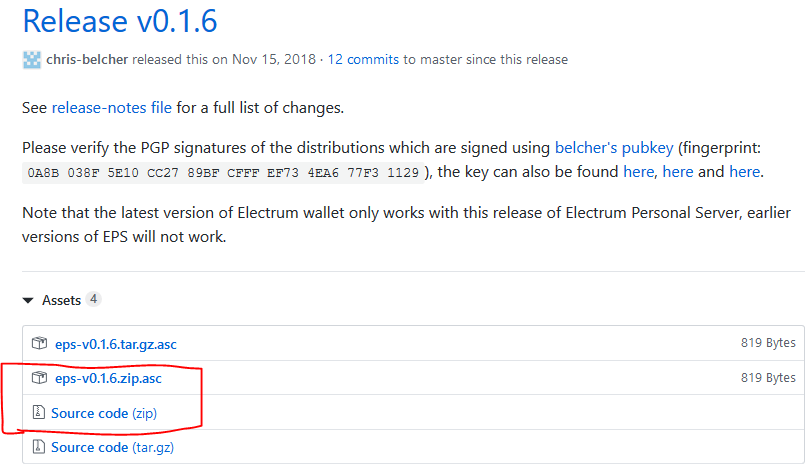
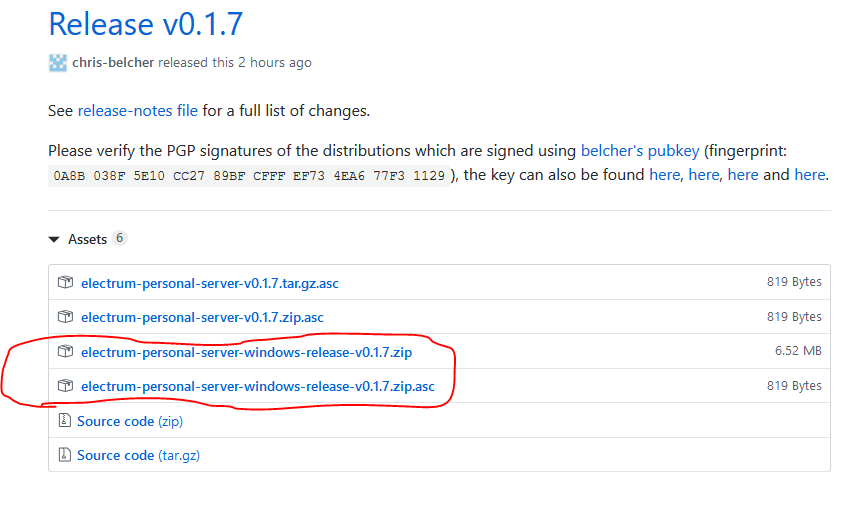
Updated EPS-guide for v1.7

diff --git a/hodl-guide/hodl-guide_63_eps-win.md b/hodl-guide/hodl-guide_63_eps-win.md
@@ -5,26 +5,29 @@
 
 # Electrum Personal Server on Windows 10
 
-*Difficulty: medium*
+*Difficulty: easy*
 
 Electrum Personal Server will connect your Bitcoin full node to Electrum. This will make it possible to use all functionality in Electrum (Hardware Wallet support, easy multi-sig setup and more) while still validating and broadcasting everything with your full node.
+
+If you like to know more about the project, go to https://github.com/chris-belcher/electrum-personal-server and read the intro (before How To).
 
 Before starting, make sure you’ve got a Bitcoin Core full node running and synced. If don’t, see [Install and optimize Bitcoin Core](hodl-guide_61_bitcoin-core.md).
 
 You also need [Electrum](https://electrum.org/#download). Always check the digital signatures before installing, more info on how [here](https://github.com/DriftwoodPalace/guides/blob/master/hodl-guide/hodl-guide_30_last-seed.md#download-and-verify-electrum).
 
+If you have any issues during the setup, check out the troubleshooting section at the end of this guide.
+
 ## Download the installation package
 
-Go to https://github.com/chris-belcher/electrum-personal-server and read the intro (before How To) to know what this is and why it’s important.
-Before installing anything we need to verify the downloads. To do this we need Chris Belchers signing-keys. It can be found [here](https://github.com/chris-belcher/electrum-personal-server/blob/master/pgp/pubkeys/belcher.asc).
+Before installing anything we need to verify the download. To do this we need the developer, Chris Belchers, signing-keys. It can be found [here](https://github.com/chris-belcher/electrum-personal-server/blob/master/pgp/pubkeys/belcher.asc).
 
 On the page, click “raw”:
 
 ![Eps Win1](images/63_eps-w_1.png)
 
-Use `Ctrl+S` and save the key in a folder on your computer.
+Use `Ctrl+S` and save the key in a folder on your computer (preferably in the folder you download files to).
 
-Then, navigate to the [release page](https://github.com/chris-belcher/electrum-personal-server/releases) and download the latest `Source code (.zip)` and the corresponding `.asc` file (needed to verify the downloaded file). For example:
+Then, navigate to the [release page](https://github.com/chris-belcher/electrum-personal-server/releases) and download the latest release for Windows. Make sure to download the corresponding `.asc` file (detached signature) as well. For example:
 
 ![Eps Win2](images/63_eps-w_2.png)
 
@@ -34,103 +37,68 @@ Then, navigate to the folder where the downloaded files are located. Use `Shift+
 
 ![Eps Win9](images/63_eps-w_9.png)
 
-That should automatically start PowerShell in the right directory (else start PowerShell manually and use `> cd ~\downloads` to change to the right directory)
+That should automatically start PowerShell in the correct directory (else start PowerShell manually and use `cd ~\downloads` to change to the right directory)
 
-Start by importing Belchers signing key to your local directory (enter everything after the symbol `>` and then click return):
+Start by importing Belchers signing key to your local directory by typing this in PowerShell:
 
-`> gpg --import belcher.asc`
+`gpg --import belcher.asc`
 
 Then verify the zip-file:
 
-`> gpg --verify eps-v0.1.6.zip.asc electrum-personal-server-eps-v0.1.6.zip`
+` gpg --verify electrum-personal-server-windows-release-v0.1.7.zip.asc`
 
 The output should be something similar to this:
 
 ```
-gpg: Signature made 11/15/18 23:30:04 W. Europe Standard Time
+gpg: assuming signed data in 'electrum-personal-server-windows-release-v0.1.7.zip'
+gpg: Signature made 04/26/19 18:26:08 W. Europe Daylight Time
 gpg:                using RSA key EF734EA677F31129
 gpg: Good signature from "Chris Belcher <false@email.com>" [unknown]
 gpg: WARNING: This key is not certified with a trusted signature!
 gpg:          There is no indication that the signature belongs to the owner.
-Primary key fingerprint: 0A8B 038F 5E10 CC27 89BF CFFF EF73 4EA6 77F3 1129
+Primary key fingerprint: 0A8B 038F 5E10 CC27 89BF  CFFF EF73 4EA6 77F3 1129
 ```
 
 We can see that the signature was made at a date close to the release, it's a `Good signature` and the Primary key fingerprint is the same as on Github. We can double check by doing a search online on the fingerprint. That confirms from various sources that the key seems to belong to Chris Belcher. If you get a different fingerprint or a bad signature, stop and investigate further.
 
 Otherwise go ahead an unzip the .zip file to any location on your computer.
 
-## Install the server with Python
+## Modify the config-file
 
-We need Python3 to install the server. Check if it’s installed by going back to PowerShell and type in:
+We need to modify a few settings before starting the server.
 
-`> python --version`
-
-If it gives an error, try
-
-`> py --version`
-
-*Note:* `Py` is the Windows Python Launcher and can in some situation work when `python` doesn’t. But try to use `python` and if only `py` works change python to py in the following examples.
-
-If Python 3 (not Python 2.7) is installed, it will give you an output with the version. For example `Python 3.7.0` if Python 3.7 is installed. Otherwise go to https://www.python.org/downloads/ and download and install the latest version.
-
-We are going to use `pip` to install the personal server. It should be installed with Python, but make sure you have the latest version by typing this in PowerShell:
-
-`> python -m pip install -U pip`
-
-When it’s done, type the following (and make sure to change the path to where you unzipped the file):
-
-`> python -m pip install --user C:\Users\User1\Downloads\electrum-personal-server-eps-v0.1.6`
-
-That should install the server and you should now have the two scripts, `electrum-personal-server.exe` and `electrum-personal-server-rescan.exe` in a Python folder in the `%Appdata` location.
-
-To make sure that everything worked, open the folder by typing this in PowerShell:
-
-`> ii ~\AppData\Roaming\Python\Python37\Scripts`
-
-Change "python37" if using another version then Python3.7. You should see the folder with the scripts:
-
-![Eps Win8](images/63_eps-w_8.png)
-
-If it doesn't work try navigating to the folder manually, it should be located at `C:\Users\User1\AppData\Roaming\Python\Python37\Scripts`. AppData is usually a hidden folder, so make sure you can see hidden folders.
-
-Once in the folder, mark both files, right click and select "Create Shortcut". That should create two shortcuts. Cut these shortcuts and paste them in a more convenient folder (like on the desktop or in the Electrum Personal Server folder).
-
-If you are getting errors or can't find the scripts, make sure you have the latest version of Python and Pip. If not, update and try installing the server again.
-
-## Change the config-file
-
-Go back into the unzipped folder electrum-personal-server-eps-v0.1.6 and make a copy of the file `config.cfg_sample` and rename the copy to `config.cfg` (you’ll get a warning about changing the file name extension, select Yes).
+Navigate to the unzipped folder `\electrum-personal-server-windows-release-v0.1.7` and make a copy of the file `config.ini_sample` and rename the copy to `config.ini` (you’ll get a warning about changing the file name extension, select Yes).
 
 *Note:* Make sure that you can see file extensions, it can be changed at “View” in the top-bar:
 
 ![Eps Win3](images/63_eps-w_3.png)
 
-Right click on the file and select edit to edit it with a text editor (notepad etc). We are going to modify a few lines to tell the server what it should look for.
+Right click on `config.ini` and select edit to edit it with a text editor (notepad etc).
 
 #### For multi-sig wallets
 
-To import a multi-sig wallet, open the wallet in Electrum. Go to `Wallet>Information` and copy the Master Public Key of cosigner 1. 
+To import a multi-sig wallet, open the wallet in Electrum. Go to `Wallet>Information` and copy the Master Public Key for cosigner 1.
 
-In the config.cfg-file, create a new line and give the wallet a name. If you are using a 2 of 3 multi-sig, type `2` (required-signatures) after the name. Then paste cosigner 1s key. Go back to Electrum, copy the key for cosigner 2 and paste after cosigner 1s key (on the same row) and go back to Electrum and copy and paste the key for cosigner 3. Your row should look like this (but with your 3 keys):
+In `config.ini`, create a new line and give the wallet a name. If you are using a 2 of 3 multi-sig, type `2` (required-signatures) after the name. Then paste cosigner 1s key. Go back to Electrum, copy the key for cosigner 2 and paste it after cosigner 1s key (on the same row) and go back to Electrum and copy and paste the key for cosigner 3. Your row should look like this (but with your 3 keys):
 
 ```
 my_multisig_wallet = 2 xpub661MyMwA... xpub6AMQ6ZPNa6... xpub6A2po6ffdf...
 ```
 
-You can change the name “my_multisig_wallet” if you like.
+You can change the name “my_multisig_wallet” if you like. Make sure that you don't have the symbol `#` in front of the line (it'll then be treated as a comment).
 
 *Note:* This is storing your master public keys in cleartext on your computer. A malicious actor could get hold of this and from that derive all of your bitcoin addresses (your funds are not at risk because of this).
 
 #### Single wallet
 
-If you want to add a single wallet, for example with one key from a hardware wallet. Follow the same procedure. Open the wallet in Electrum and go to Wallet>Information and copy the Master Public Key. Pick a name and paste it to the config.cfg file.
+If you want to add a single wallet, for example with one key from a hardware wallet. Follow the same procedure. Open the wallet in Electrum and go to Wallet>Information and copy the Master Public Key. Pick a name and paste the key in `config.ini` file.
 For example:
 
 ```
 Hw_wallet1 = xpubkg4QUp5XpUdNf2uGXvQmnD4zcofZ1MN6Fo8PjqQ…
 ```
 
-### Rest of the config.cfg file
+### Rest of the config.ini file
 
 If you’ve moved your Bitcoin data directory (where your blocks and chainstate are stored) you need to add that directory to the line `datadir` (you might need to add this even if you use the default location, default locations can be found here https://en.bitcoin.it/wiki/Data_directory). For example:
 
@@ -138,20 +106,22 @@ If you’ve moved your Bitcoin data directory (where your blocks and chainstate 
 datadir = D:\Bitcoin
 ```
 
-You can use the default RPC-verification for Bitcoin Core. In that case Bitcoin Core creates a cookie file for you and you don't have to add anything else to config.cfg
+You can use the default RPC-verification for Bitcoin Core. In that case Bitcoin Core creates a cookie file for you and you don't have to add anything else to config.ini. If you don't know what this is, you're probably using the default setting and can save and close the file.
 
-Another alternative is to use a `rpcuser` and a strong (many random characters) `rpcpassword` with Bitcoin Core. This can be necessary for applications like the lightning network to work. If you are using this you'll need to add this to `config.cfg` as well. Uncomment (remove `#`) the two lines `rpc_user` and `rpc_password` and add your information. If you don't have a user and a password for Bitcoin Core yet, you can create that here and transfer it to Bitcoin Core later.
+Another alternative is to use a `rpcuser` and a strong (many random characters) `rpcpassword` with Bitcoin Core. This can be necessary for applications like the lightning network to work. If you are using this you'll need to add this to `config.ini` as well. Uncomment (remove `#`) the two lines `rpc_user` and `rpc_password` and add your information. If you don't have a user and a password for Bitcoin Core yet, you can create that here and transfer it to Bitcoin Core later.
 
-#### Change the bitcoin.conf file
+### Settings in Bitcoin Core
 
-We need to add the line `server=1` to our Bitcoin configuration file for Bitcoin Core to accepts connections from Electrum Personal Server. If you are unsure if you have a configuration file or not, open Bitcoin Core and go to `Settings>Options` and select `Open Configuration File` on the main tab. That should either create a new file in the right directory or open your existing file.
+To get Electrum Personal Server to connect to Bitcoin Core, you might need to change a few settings in Bitcoin Core. This is done in the configuration file for Bitcoin Core.
 
-Make sure to add:
+If you're unsure if you have a configuration file or not, open Bitcoin Core and go to `Settings>Options` and select `Open Configuration File` on the main tab. That should either create a new file in the right directory or open your existing file.
+
+Add:
 
 ```
 server=1
 ```
-to a new line.
+to a new line (this'll turn on the RPC-server).
 
 If you use a rpcuser and rpcpassword add this to new lines as well. The file should in that case look like this:
 
@@ -161,21 +131,89 @@ rpcuser=your_user
 rpcpassword=your_password
 ```
 
+The wallet in Bitcoin Core needs to be enabled. So, make sure that `disablewallet` is not present in the configuration file. Save and close the file. For the settings to have effect, you need to restart Bitcoin Core.
+
 ## Import addresses to the server
 
-We are using the shortcuts we created earlier to import addresses the server. Go to the shortcuts and right click on `electrum-personal-server.exe - Shortcut` and select Properties. In "Target" add the full path to your config.cfg file *after* the path to the script. For example:
-
-```
-C:\Users\User1\AppData\Roaming\Python\Python37\Scripts\electrum-personal-server.exe "C:\Users\User1\Downloads\electrum-personal-server-eps-v0.1.6\config.cfg"
-```
+Both of your configuration files should now be in order and we can start the server. Go back to the folder `electrum-personal-server-windows-release-v0.1.7`. To start the server drag the file `config.ini` onto the file `electrum-personal-server.exe`:
 
 ![Eps Win10](images/63_eps-w_10.png)
 
-Click "OK" and then start the server by double clicking on the shortcut. Electrum Server should start and import addresses from the master public keys you defined in config.cfg as watch only addresses in your Bitcoin Core node. Wait for the importing to finish (the terminal will close when it's done).
+The first time the server is run it will import all configured addresses as watch-only into the Bitcoin node, and then exit. If your wallet contains old transactions, you'll need to rescan the local copy of the blockchain for any transactions in your wallet. 
+
+Do this by dragging `config.ini` onto the batch script `electrum-personal-server-rescan.bat`. That should open a command prompt where you'll be asked for a date to rescan from. Enter a date (in the format DD/MM/YYYY) from where you would like to start importing addresses (the further back, the longer time it will take) and hit return. You'll get a suggestion of a block height to start from. Type `y` and hit return. Wait for the rescanning to finish (the server will exit once finished).
+
+If you don't rescan and open an old wallet, the balance will show 0 as it doesn't know about any old transactions (you can always do a rescan later to see the transactions).
+
+Now you can start the server "for real". 
+
+*Optional*: Create a shortcut so you don't have to drag the config.ini file onto the .exe file all the time. Do this by right clicking on `electrum-personal-server.exe` and select `Create shortcut`. Right click on the shortcut and select properties. In the `Target` field, paste the full path to config.ini after the path to `electrum-personal-server.exe`. So that the full line reads something like:
+
+```
+C:\Users\{user}\Downloads\electrum-personal-server-windows-release-v0.1.7\electrum-personal-server.exe "C:\Users\{user}\Downloads\electrum-personal-server-windows-release-v0.1.7\config.ini"
+```
+
+You can place this shortcut anywhere you like and use it to start the server.
+
+So go ahead and use your shortcut or drag `config.ini` onto `electrum-personal-server.exe` to start the server. Wait for this message to appear:
+
+```
+Listening for Electrum Wallet ...
+```
+
+## Setting up Electrum
+
+Now we only need to tell Electrum to listen to our server!
+
+Start Electrum and open a wallet. Go to `Tools>Network`.
+
+Uncheck "Select server automatically" and change `Server` to `localhost`:
+
+![Eps Win4](images/63_eps-w_4.png)
+
+(if you changed port `50002` in `config.ini` make sure to change to the same port here, otherwise use the default.)
+
+If you use Electrum over Tor you have to disable this (no need to connect to your own server over Tor). Change tab to "Proxy" and uncheck "Use Tor proxy at port 9050":
+
+![Eps Win7](images/63_eps-w_7.png)
+
+Close the dialog once finished. Electrum should now be connected to your full node!
+
+You can confirm this by looking for the green circle in the bottom right corner of Electrum and the message `Electrum connected from ('127.0.0.1', 60449)` on the server side.
+
+It's still a good idea to use Tor, but you'll have to do it with your Bitcoin Core node now. Check out the guide for [running Bitcoin Core over Tor](https://github.com/DriftwoodPalace/guides/blob/master/hodl-guide/hodl-guide_61_bitcoin-core.md#running-bitcoin-core-over-tor)
+
+### Disable connections to other servers
+
+*Pro tip:* Create a shortcut that disables all connections to other servers (otherwise, Electrum will still download block headers from other servers). With this shortcut you don’t risk connecting to a public server by mistake. If you don’t have a shortcut to Electrum on your desktop or in a folder. Navigate to the folder where Electrum is located, standard is `"C:\Program Files (x86)\Electrum"`. Right click on the `.exe` file, for example `electrum-3.1.3.exe`. Select Create Shortcut. You’ll get the following message:
+
+![Eps Win5](images/63_eps-w_5.png)
+
+Select Yes
+
+Navigate to the desktop and right click on the shortcut. Select `properties`. In `Target` add the following to the end of the line:
+
+`--oneserver --server localhost:50002:s`
+
+So, the whole line reads something like:
+
+`"C:\Program Files (x86)\Electrum\electrum-3.1.3.exe" --oneserver --server localhost:50002:s`
+
+If you’ve changed the port from `50002` in `config.ini`, make sure to change to the same port here. Use the shortcut to start Electrum (and make sure to only use this shortcut to start it).
+
+Your wallet should be connected to your bitcoin full node (the circle in the bottom right corner should be green)!
+
+![Eps Win6](images/63_eps-w_6.png)
+
+You can verify that only your server is being used by going to `Tools>Network`. You should only see localhost at overview:
+
+![Eps Win11](images/63_eps-w_11.png)
+
+If you change tab to "Server". Localhost should be selected and everything should be greyed out (not possible to change anything).
 
 ### Troubleshooting
 
-If the terminal `cmd.exe` starts and quickly exits the server isn’t starting properly. Check the log file for errors. The log file is located in `C:\Users\User1\AppData\Local\Temp\electrumpersonalserver.log`.
+If the terminal `cmd.exe` starts and quickly exits the server isn’t starting properly. Check the log file for errors. The log file is located in `C:\Users\{user}\AppData\Local\Temp\electrumpersonalserver.log`.
 
 You can open it by typing `ii ~\AppData\Local\Temp\electrumpersonalserver.log` in PowerShell or navigate to it manually.
  
@@ -185,13 +223,13 @@ If you see an error message like:
 WARNING:2019-02-27 09:32:22,102: Unable to find .cookie file, try setting `datadir` config
 ```
 
-Check the `datadir` in your config.cfg file or try setting a rpc_user and rpc_password.
+Check the `datadir` in your config.ini file and make sure that you have `server=1`in the configuration file for Bitcoin Core.
 
 If the server starts but you get a `JSON-error`, your rpc_user and/or rpc_password is probably wrong. Check your configuration files and check so you don't have multiple config files (in the default location and in the new location if you moved the installation). You can check which file Bitcoin Core is using by going to Settings>Options and then Open Configuration File in Bitcoin Core.
 
 You can also try to change the authentication method if you can't resolve it. If you use rpcuser and rpcpassword try the cookie method or the other way around.
 
-Below is a copy of a `config.cfg`-file ith a 2 of 3 multi-sig wallet where the datadir is changed to D:\Bitcoin. It uses `rpcuser` and `rpcpassword` in `bitcoin.conf` (All comments `#` in this file is removed for readability, can be a good idea to keep those)
+Below is a copy of a `config.ini`-file with a 2 of 3 multi-sig wallet where the datadir is changed to D:\Bitcoin. It uses `rpcuser` and `rpcpassword` in `bitcoin.conf` (All comments `#` in this file is removed for readability, can be a good idea to keep those)
 
 ```
 [master-public-keys]
@@ -236,7 +274,7 @@ OSError: [WinError 10013] An attempt was made to access a socket in a way forbid
 ```
 
 The risk is that some other service is using a port you are trying to connect to.
-Try another port for electrum server by changing the port for "electrum-server" in `config.cfg` file like:
+Try another port for electrum server by changing the port for "electrum-server" in `config.ini` file like:
 
 ```
 [electrum-server]
@@ -245,71 +283,6 @@ port = 8000
 ```
 
 Use a port with lower number then 40 000. Risk is that a higher port can be used by another service.
-
-## Start the server
-
-Once the importing is done Electrum Server will exit. If you are using an old wallet an like to import old transactions, you need to rescan the Bitcoin blockchain. You can do this by adding the path to the config.cfg file to `electrum-personal-server-rescan.exe - Shortcut`. Do like before, right click on the shortcut, select properties and add the path to the end of target. Target should be something like:
-
-```
-C:\Users\User1\AppData\Roaming\Python\Python37\Scripts\electrum-personal-server-rescan.exe "C:\Users\User1\Downloads\electrum-personal-server-eps-v0.1.6\config.cfg"
-```
-
-Do the rescanning by using the rescan shortcut. When it starts enter a date (in the format DD/MM/YYYY) from where you would like to start importing addresses (the further back, the longer time it will take) and hit return. You will get a suggestion of a block height to start from. Enter `y` and hit return. Wait for the rescanning to finish (the server will exit once finished).
-
-If you don't rescan and open an old wallet, the balance will show 0 as it doesn't know about any old transactions (you can always do a rescan later to see the transactions).
-
-Once the rescanning is done, or if you use a new wallet. Use the shortcut `electrum-personal-server.exe - Shortcut` again. This will start the server. Wait for this message to appear:
-
-```
-Listening for Electrum Wallet ...
-```
-
-## Setting up Electrum
-Now we only need to tell Electrum to listen to our server!
-
-Start Electrum and open a wallet. Go to `Tools>Network`.
-
-Uncheck "Select server automatically" and change `Server` to `localhost`:
-
-![Eps Win4](images/63_eps-w_4.png)
-
-If you changed port `50002` in `config.cfg` make sure to change to the same port here.
-
-If you use Electrum over Tor you have to disable this (no need to connect to your own server over Tor). Change tab to "Proxy" and uncheck "Use Tor proxy at port 9050":
-
-![Eps Win7](images/63_eps-w_7.png)
-
-Close the dialog once finished. Electrum is now be connected to your full node!
-
-It's still a good idea to use Tor, but you'll have to do it with your Bitcoin Core node now. Check out the guide for [running Bitcoin Core over Tor](https://github.com/DriftwoodPalace/guides/blob/master/hodl-guide/hodl-guide_61_bitcoin-core.md#running-bitcoin-core-over-tor)
-
-### Disable connections to other servers
-
-*Pro tip:* Create a shortcut that disables all connections to other servers (otherwise, Electrum will still download block headers from other servers). With this shortcut you don’t risk connecting to a public server by mistake. If you don’t have a shortcut to Electrum on your desktop or in a folder. Navigate to the folder where Electrum is located, standard is `"C:\Program Files (x86)\Electrum"`. Right click on the `.exe` file, for example `electrum-3.1.3.exe`. Select Create Shortcut. You’ll get the following message:
-
-![Eps Win5](images/63_eps-w_5.png)
-
-Select Yes
-
-Navigate to the desktop and right click on the shortcut. Select `properties`. In `Target` add the following to the end of the line:
-
-`--oneserver --server localhost:50002:s`
-
-So, the whole line is something like:
-
-`C:\Program Files (x86)\Electrum\electrum-3.1.3.exe" --oneserver --server localhost:50002:s`
-
-If you’ve changed the port from `50002` in `config.cfg`, make sure to change to the same port here. Use the shortcut to start Electrum (and make sure to only use this shortcut to start it).
-
-Your wallet should be connected to your bitcoin full node (the circle in the bottom right corner should be green)!
-
-![Eps Win6](images/63_eps-w_6.png)
-
-You can verify that only your server is being used by going to `Tools>Network`. You should only see localhost at overview:
-
-![Eps Win11](images/63_eps-w_11.png)
-
-If you change tab to "Server". Localhost should be selected and everything should be greyed out (not possible to change anything).
 
 ---
 
